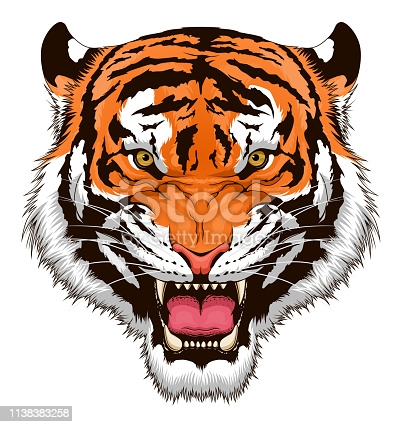
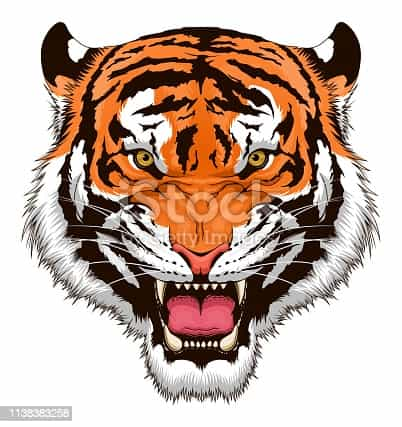
Feature: Reduce image sizes to improve initial page load performance
Resolves: N/a
See also: #3

diff --git a/src/routes/index.svelte b/src/routes/index.svelte
@@ -65,7 +65,7 @@
                 w-full mb-6 shadow-lg rounded-lg bg-sepia-300">
                 <img
                   alt="..."
-                  src="chs_friends.png"
+                  src="chs_friends.jpeg"
                   class="w-full align-middle rounded-t-lg" />
                 <blockquote class="relative p-8 mb-4">
                   <svg
@@ -99,7 +99,7 @@
                 w-full mb-6 shadow-lg rounded-lg bg-sepia-300">
                 <img
                   alt="..."
-                  src="chs_graduation.png"
+                  src="chs_graduation.jpeg"
                   class="w-full align-middle rounded-t-lg" />
                 <blockquote class="relative p-8 mb-4">
                   <svg
@@ -132,7 +132,7 @@
                 w-full mb-6 shadow-lg rounded-lg bg-sepia-300">
                 <img
                   alt="..."
-                  src="chs_basketball.jpeg"
+                  src="chs_basketball.png"
                   class="w-full align-middle rounded-t-lg" />
                 <blockquote class="relative p-8 mb-4">
                   <svg
